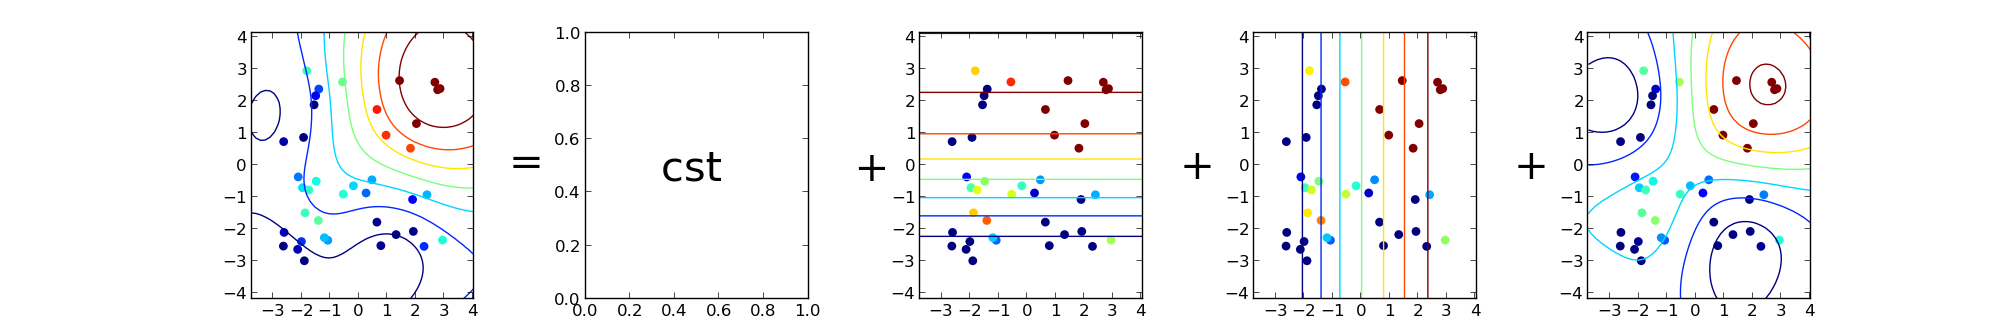
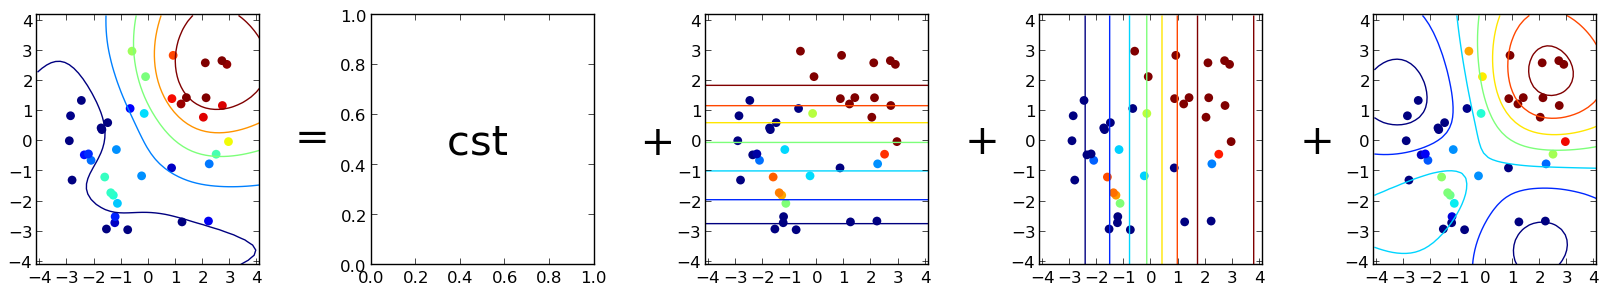
Tutorial improved

diff --git a/doc/tuto_kernel_overview.rst b/doc/tuto_kernel_overview.rst
@@ -33,7 +33,7 @@ should return::
 
 .. figure::  Figures/tuto_kern_overview_basicplot.png
     :align:   center
-    :height: 350px
+    :height: 300px
 
 Implemented kernels
 ===================
@@ -105,7 +105,7 @@ A shortcut for ``add`` and ``prod`` is provided by the usual ``+`` and ``*`` ope
     Y = np.random.multivariate_normal(np.zeros(501),k.K(X),1)
 
 ..  # plot
-    pb.figure(figsize=(8,4))
+    pb.figure(figsize=(10,4))
     pb.subplot(1,2,1)
     k.plot()
     pb.subplot(1,2,2)
@@ -115,7 +115,7 @@ A shortcut for ``add`` and ``prod`` is provided by the usual ``+`` and ``*`` ope
 
 .. figure::  Figures/tuto_kern_overview_multperdecay.png
     :align:  center
-    :height: 350px
+    :height: 300px
 
 Example : Building an ANOVA kernel
 ==================================
@@ -130,23 +130,27 @@ Let us assume that we want to define an ANOVA kernel with a Matern 3/2 kernel fo
 
     k_cst = GPy.kern.bias(1,variance=1.)
     k_mat = GPy.kern.Matern52(1,variance=1., lengthscale=3)
-    Kanova = (k_cst + k_mat) * (k_cst + k_mat)
+    Kanova = (k_cst + k_mat).prod_orthogonal(k_cst + k_mat)
     print Kanova
 
 Printing the resulting kernel outputs the following ::
 
                      Name                  |  Value   |  Constraints  |  Ties  
     ---------------------------------------------------------------------------
-           bias<times>bias_variance        |  1.0000  |               |        
-           bias<times>Mat52_variance       |  1.0000  |               |        
-      bias<times>Mat52_Mat52_lengthscale   |  3.0000  |               |  (1)   
-           Mat52<times>bias_variance       |  1.0000  |               |        
-      Mat52<times>bias_Mat52_lengthscale   |  3.0000  |               |  (0)   
-          Mat52<times>Mat52_variance       |  1.0000  |               |        
-      Mat52<times>Mat52_Mat52_lengthscale  |  3.0000  |               |  (0)   
-      Mat52<times>Mat52_Mat52_lengthscale  |  3.0000  |               |  (1)
+         bias<times>bias_bias_variance     |  1.0000  |               |  (0)   
+         bias<times>bias_bias_variance     |  1.0000  |               |  (3)   
+        bias<times>Mat52_bias_variance     |  1.0000  |               |  (0)   
+        bias<times>Mat52_Mat52_variance    |  1.0000  |               |  (4)   
+      bias<times>Mat52_Mat52_lengthscale   |  3.0000  |               |  (5)   
+        Mat52<times>bias_Mat52_variance    |  1.0000  |               |  (1)   
+      Mat52<times>bias_Mat52_lengthscale   |  3.0000  |               |  (2)   
+        Mat52<times>bias_bias_variance     |  1.0000  |               |  (3)   
+       Mat52<times>Mat52_Mat52_variance    |  1.0000  |               |  (1)   
+      Mat52<times>Mat52_Mat52_lengthscale  |  3.0000  |               |  (2)   
+       Mat52<times>Mat52_Mat52_variance    |  1.0000  |               |  (4)   
+      Mat52<times>Mat52_Mat52_lengthscale  |  3.0000  |               |  (5)   
 
-Note the ties between the lengthscales of ``Kanova`` to keep the number of lengthscales equal to 2. On the other hand, there are four variance terms in the new parameterization: one for each term of the right hand part of the above equation. We can illustrate the use of this kernel on a toy example::
+Note the ties between the parameters of ``Kanova`` that reflect the links between the parameters of the kernparts objects. We can illustrate the use of this kernel on a toy example::
 
     # sample inputs and outputs
     X = np.random.uniform(-3.,3.,(40,2))
@@ -154,12 +158,12 @@ Note the ties between the lengthscales of ``Kanova`` to keep the number of lengt
 
     # Create GP regression model
     m = GPy.models.GP_regression(X,Y,Kanova)
+    pb.figure(figsize=(5,5))
     m.plot()
-
 
 .. figure::  Figures/tuto_kern_overview_mANOVA.png
     :align:  center
-    :height: 350px
+    :height: 300px
 
 As :math:`k_{ANOVA}` corresponds to the sum of 4 kernels, the best predictor can be splited in a sum of 4 functions 
 
@@ -171,7 +175,7 @@ As :math:`k_{ANOVA}` corresponds to the sum of 4 kernels, the best predictor can
 
 The submodels can be represented with the option ``which_function`` of ``plot``: ::
     
-    pb.figure(figsize=(20,5))
+    pb.figure(figsize=(20,3))
     pb.subplots_adjust(wspace=0.5)
     pb.subplot(1,5,1)
     m.plot()
@@ -187,10 +191,11 @@ The submodels can be represented with the option ``which_function`` of ``plot``:
     pb.ylabel("+   ",rotation='horizontal',fontsize='30')
     m.plot(which_functions=[False,False,False,True])
 
+..  pb.savefig('tuto_kern_overview_mANOVAdec.png',bbox_inches='tight')
 
 .. figure::  Figures/tuto_kern_overview_mANOVAdec.png
     :align:  center
-    :height: 200px
+    :height: 300px
 
 
 ..  import pylab as pb
